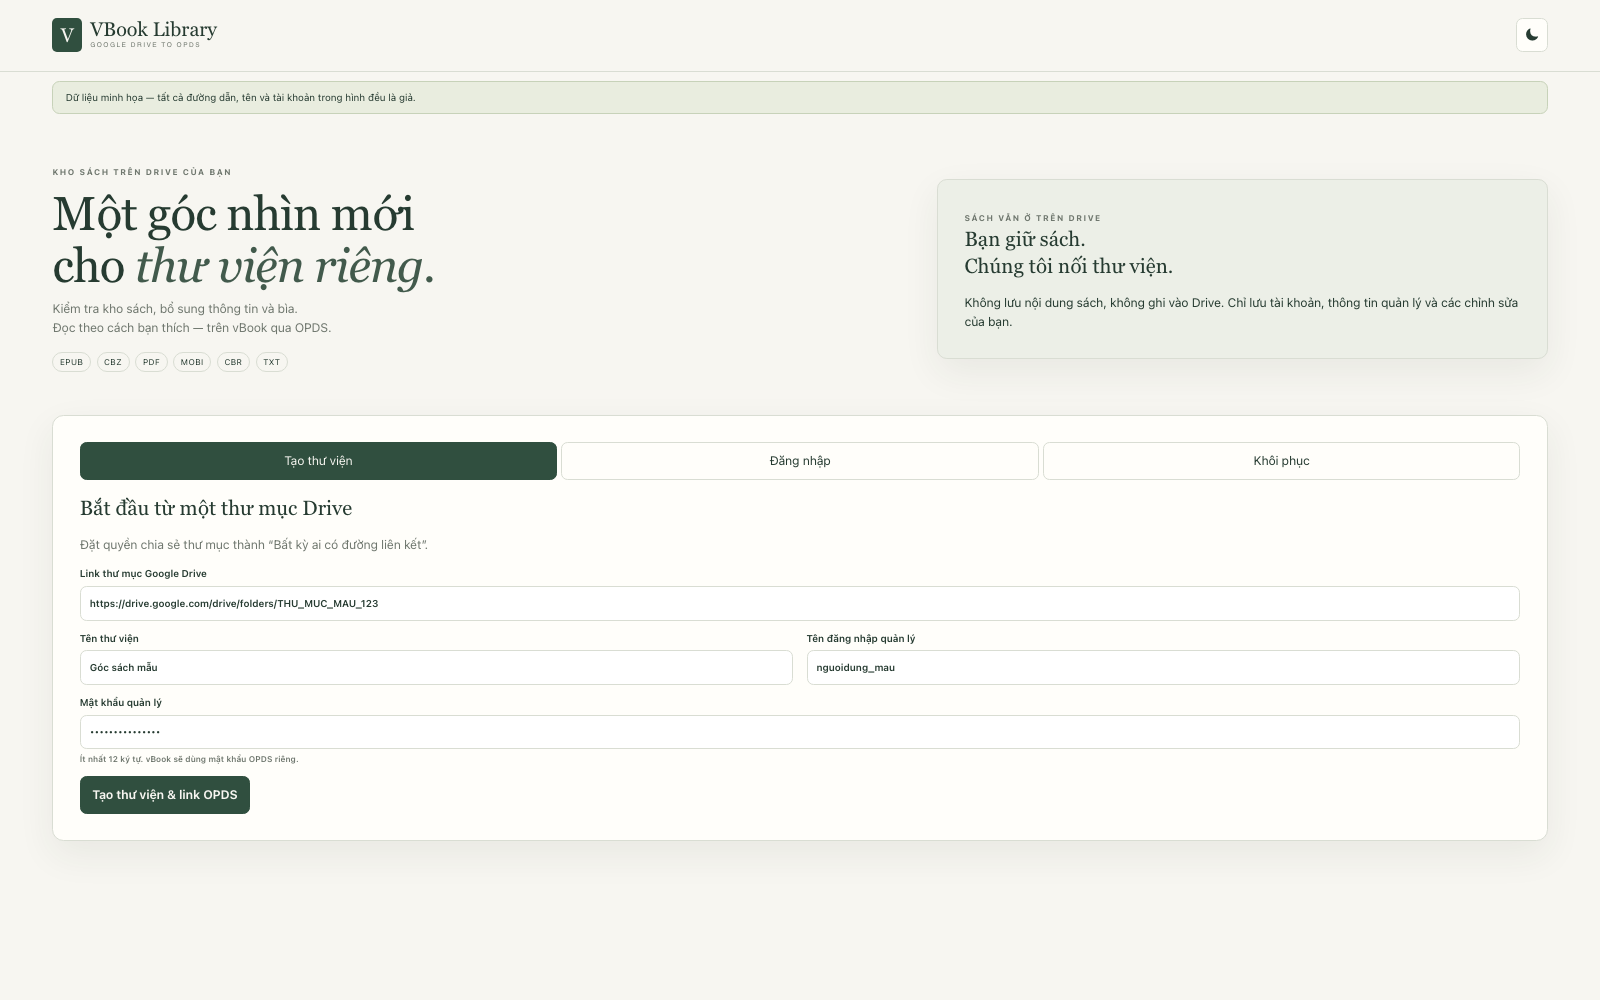
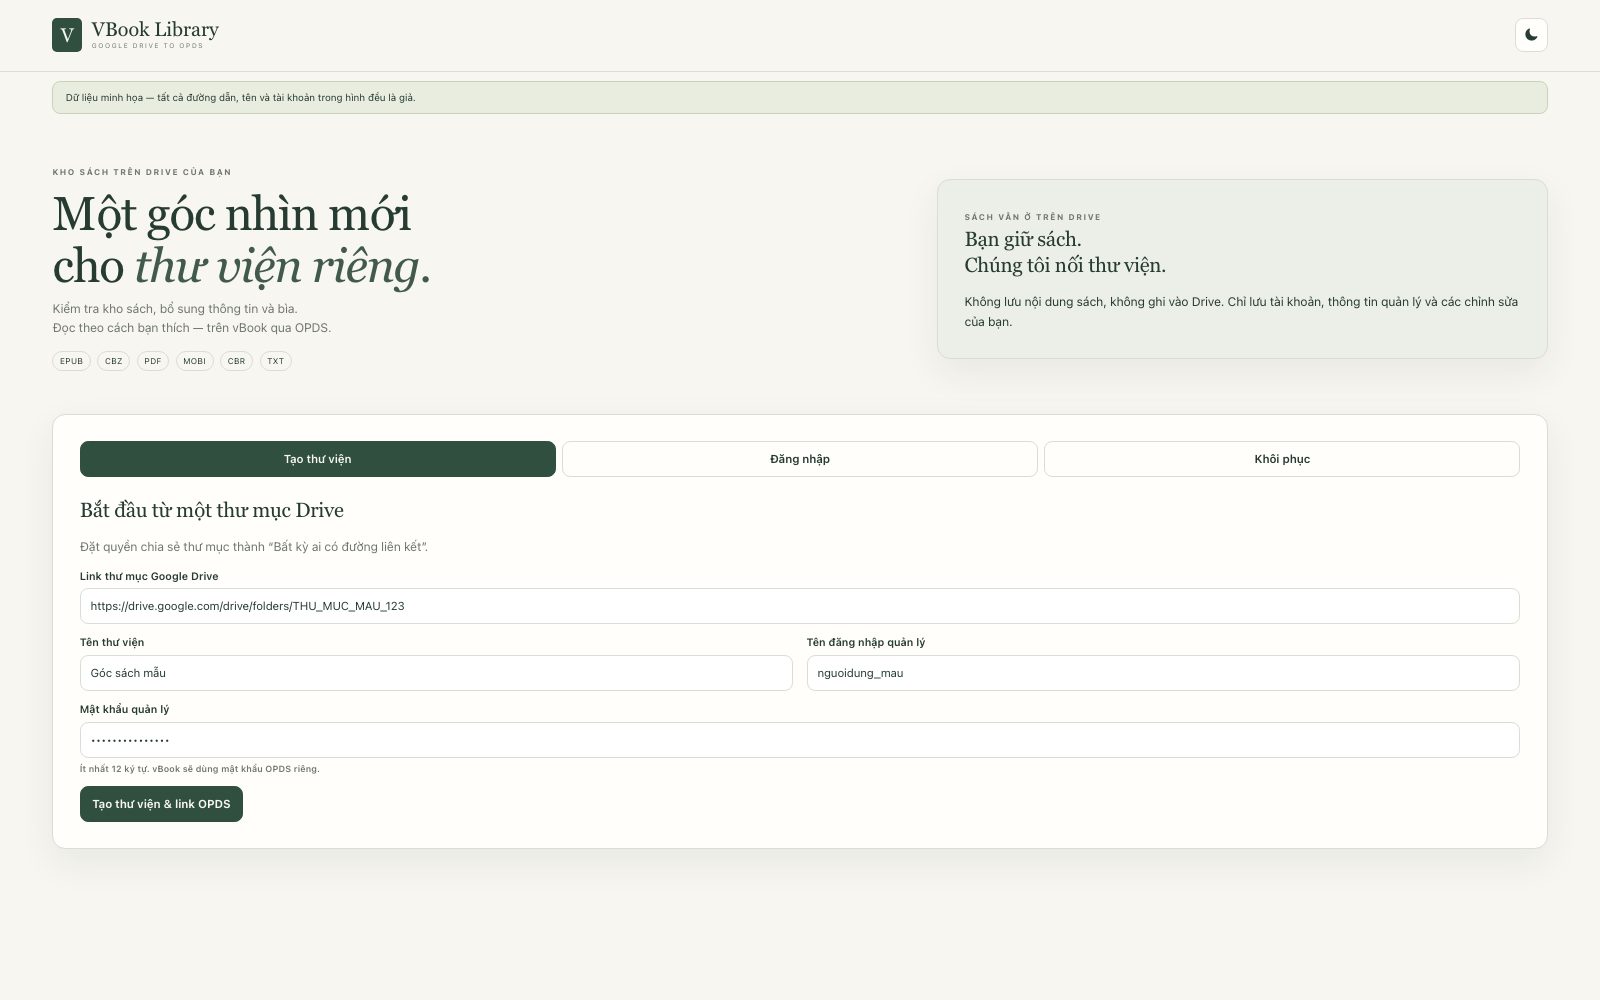
fix: standardize interface layout metrics

diff --git a/src/library-ui.ts b/src/library-ui.ts
@@ -46,6 +46,16 @@ export const libraryCss = String.raw`
   --cover-line: #dce2d3;
   --folder: #e8e2d1;
   --serif: Georgia, 'Times New Roman', serif;
+  --sans: -apple-system, BlinkMacSystemFont, 'Segoe UI', sans-serif;
+  --control-height: 44px;
+  --radius-control: 10px;
+  --radius-panel: 16px;
+  --space-1: 4px;
+  --space-2: 8px;
+  --space-3: 12px;
+  --space-4: 16px;
+  --space-5: 24px;
+  --space-6: 32px;
 }
 
 :root[data-theme='dark'] {
@@ -109,18 +119,24 @@ body {
   min-width: 280px;
   background: var(--paper);
   color: var(--ink);
-  font: 15px/1.6 -apple-system, BlinkMacSystemFont, 'Segoe UI', sans-serif;
+  font: 15px/1.6 var(--sans);
+  font-kerning: normal;
+  text-rendering: optimizeLegibility;
   -webkit-font-smoothing: antialiased;
 }
 button, input, select, textarea { font: inherit; color: inherit; }
 button, a, input, select, textarea { touch-action: manipulation; }
 button {
-  min-height: 44px;
+  min-height: var(--control-height);
   padding: 10px 14px;
   cursor: pointer;
   background: var(--surface);
   border: 1px solid var(--line);
-  border-radius: 8px;
+  border-radius: var(--radius-control);
+  font-size: 14px;
+  font-weight: 600;
+  line-height: 1.25;
+  letter-spacing: .005em;
   transition: background-color .18s ease, border-color .18s ease, transform .18s ease;
 }
 button:hover { background: var(--soft); }
@@ -146,9 +162,9 @@ header {
   border-bottom: 1px solid var(--line);
   backdrop-filter: blur(14px);
 }
-.header { display: grid; grid-template-columns: auto minmax(0, 1fr); align-items: center; gap: 8px; padding-block: 10px; }
-.brand { display: flex; gap: 10px; align-items: center; width: fit-content; text-decoration: none; font: 21px var(--serif); }
-.brand small { display: block; font: 7px/1.8 sans-serif; letter-spacing: 1.4px; color: var(--muted); }
+.header { display: grid; grid-template-columns: auto minmax(0, 1fr); align-items: center; gap: var(--space-2); padding-block: 10px; }
+.brand { display: flex; gap: var(--space-3); align-items: center; width: fit-content; text-decoration: none; font: 21px var(--serif); }
+.brand small { display: block; font: 7px/1.8 var(--sans); letter-spacing: .2em; color: var(--muted); }
 .mark {
   display: grid;
   flex: 0 0 auto;
@@ -159,30 +175,30 @@ header {
   background: var(--green);
   border-radius: 6px;
 }
-nav { display: flex; gap: 6px; align-items: center; justify-content: flex-end; overflow-x: auto; scrollbar-width: none; }
+nav { display: flex; gap: var(--space-2); align-items: center; justify-content: flex-end; overflow-x: auto; scrollbar-width: none; }
 nav::-webkit-scrollbar { display: none; }
 nav a { flex: 0 0 auto; padding: 8px 2px; font-size: 12px; }
-nav button { flex: 0 0 auto; min-height: 38px; padding: 7px 10px; font-size: 12px; }
-#theme-toggle { width: 38px; min-width: 38px; padding: 0; font-size: 19px; line-height: 1; }
+nav button { flex: 0 0 auto; min-height: 40px; padding: 8px 12px; font-size: 12px; }
+#theme-toggle { width: 40px; min-width: 40px; padding: 0; font-size: 19px; line-height: 1; }
 
-.hero { display: grid; gap: 18px; padding: clamp(22px, 7vw, 34px) 0 22px; }
-.eyebrow { margin: 0; color: var(--muted); font-size: 10px; font-weight: 700; letter-spacing: 1.8px; }
-h1 { margin: 9px 0; font: normal clamp(31px, 10vw, 58px)/1.1 var(--serif); letter-spacing: -1.2px; }
+.hero { display: grid; gap: var(--space-5); padding: clamp(24px, 7vw, 36px) 0 var(--space-5); }
+.eyebrow { margin: 0; color: var(--muted); font-size: 10px; font-weight: 700; letter-spacing: .18em; }
+h1 { margin: 9px 0; font: normal clamp(31px, 10vw, 58px)/1.1 var(--serif); letter-spacing: -.025em; }
 h1 em { color: color-mix(in srgb, var(--green) 72%, var(--muted)); font-weight: 400; }
-h2 { margin: 0 0 16px; font: normal 25px/1.3 var(--serif); }
+h2 { margin: 0 0 var(--space-4); font: normal 25px/1.3 var(--serif); letter-spacing: -.015em; }
 h3 { font-size: 18px; }
 .intro, .muted, small { color: var(--muted); }
-.intro { margin: 0 0 17px; }
+.intro { margin: 0 0 var(--space-4); }
 .intro-note {
   padding: clamp(16px, 5vw, 22px);
   background: var(--soft);
   border: 1px solid var(--line);
-  border-radius: 12px;
+  border-radius: var(--radius-panel);
   box-shadow: var(--shadow);
 }
 .intro-note p { margin-bottom: 0; }
-.tags { display: flex; flex-wrap: wrap; gap: 7px; }
-.tags span, .badge { padding: 3px 8px; border: 1px solid var(--line); border-radius: 999px; font-size: 10px; letter-spacing: .4px; }
+.tags { display: flex; flex-wrap: wrap; gap: var(--space-2); }
+.tags span, .badge { padding: 3px 8px; border: 1px solid var(--line); border-radius: 999px; font-size: 10px; letter-spacing: .04em; }
 
 .entry-panel {
   width: 100%;
@@ -191,53 +207,58 @@ h3 { font-size: 18px; }
   padding: clamp(14px, 4vw, 20px);
   background: var(--surface);
   border: 1px solid var(--line);
-  border-radius: 14px;
+  border-radius: var(--radius-panel);
   box-shadow: var(--shadow);
 }
-.tabs { display: grid; grid-template-columns: repeat(3, minmax(0, 1fr)); gap: 5px; margin-bottom: 18px; }
+.tabs { display: grid; grid-template-columns: repeat(3, minmax(0, 1fr)); gap: var(--space-2); margin-bottom: var(--space-5); }
 .tabs button { width: 100%; }
 .tabs .active, .view-toggle [aria-pressed='true'] { background: var(--green); color: var(--paper); border-color: var(--green); }
-label { display: flex; flex-direction: column; gap: 5px; margin-bottom: 12px; font-size: 12px; font-weight: 600; }
+label { display: flex; flex-direction: column; gap: 6px; margin-bottom: 14px; font-size: 13px; font-weight: 600; line-height: 1.35; letter-spacing: .01em; }
 input, select, textarea {
   width: 100%;
   min-width: 0;
-  min-height: 42px;
-  padding: 8px 11px;
+  min-height: var(--control-height);
+  padding: 9px 12px;
   background: var(--surface-raised);
   border: 1px solid var(--line);
-  border-radius: 8px;
+  border-radius: var(--radius-control);
+  font-size: 14px;
+  font-weight: 400;
+  line-height: 1.35;
+  letter-spacing: 0;
 }
 textarea { min-height: 110px; resize: vertical; }
 input[type='checkbox'] { width: 19px; min-height: 19px; height: 19px; accent-color: var(--green); }
 input[readonly] { background: var(--soft); }
 .form-grid { display: grid; gap: 0; }
 
-.section-head { display: grid; gap: 12px; padding: 22px 0 14px; }
+.section-head { display: grid; gap: var(--space-3); padding: var(--space-5) 0 var(--space-4); }
 .section-head h1 { margin-block: 8px; font-size: clamp(30px, 9vw, 42px); overflow-wrap: anywhere; }
 .section-head .primary { width: 100%; }
-.stats { display: grid; grid-template-columns: 1fr 1fr; gap: 1px; overflow: hidden; background: var(--line); border: 1px solid var(--line); border-radius: 12px; }
+.stats { display: grid; grid-template-columns: 1fr 1fr; gap: 1px; overflow: hidden; background: var(--line); border: 1px solid var(--line); border-radius: var(--radius-panel); }
 .stat { min-width: 0; padding: 11px 10px; background: var(--surface); }
 .stat strong { display: block; font: 25px var(--serif); }
 .stat span { color: var(--muted); font-size: 11px; }
-.scanbar { padding: 12px 0 14px; border-bottom: 1px solid var(--line); }
-.scanbar > div { display: grid; grid-template-columns: repeat(2, minmax(0, 1fr)); gap: 7px; }
+.scanbar { padding: var(--space-3) 0 var(--space-4); border-bottom: 1px solid var(--line); }
+.scanbar > div { display: grid; grid-template-columns: repeat(2, minmax(0, 1fr)); gap: var(--space-2); }
 .scanbar button { width: 100%; padding-inline: 8px; }
 .scanbar p { margin-bottom: 0; font-size: 13px; }
-.tools { display: grid; grid-template-columns: 1fr 1fr; gap: 8px; margin: 18px 0 14px; }
+.tools { display: grid; grid-template-columns: 1fr 1fr; gap: var(--space-3); margin: var(--space-5) 0 var(--space-4); }
 .tools label { margin: 0; }
 .tools .search, .tools .view-toggle { grid-column: 1 / -1; }
-.view-toggle { display: grid; grid-template-columns: 1fr 1fr; gap: 5px; }
-.shelf-head { display: grid; gap: 9px; margin: 18px 0; }
-.shelf-head nav { flex-wrap: wrap; overflow: visible; }
-.shelf-head button { min-height: 38px; font-size: 12px; }
-.bulk { display: grid; grid-template-columns: minmax(0, 1fr) auto; align-items: center; gap: 8px; padding: 10px; background: var(--soft); border: 1px solid var(--line); border-radius: 10px; font-size: 12px; }
+.view-toggle { display: grid; grid-template-columns: 1fr 1fr; gap: var(--space-2); height: var(--control-height); align-self: end; }
+.view-toggle button { height: var(--control-height); min-height: var(--control-height); padding-block: 0; }
+.shelf-head { display: grid; gap: var(--space-3); margin: var(--space-5) 0; }
+.shelf-head nav { flex-wrap: wrap; justify-content: flex-start; overflow: visible; }
+.shelf-head button { min-height: 40px; font-size: 12px; }
+.bulk { display: grid; grid-template-columns: minmax(0, 1fr) auto; align-items: center; gap: var(--space-3); min-height: 76px; padding: var(--space-4); background: var(--soft); border: 1px solid var(--line); border-radius: var(--radius-panel); font-size: 13px; }
 .bulk label { margin: 0; }
 .bulk > label:not(.check) { grid-column: 1; }
 .bulk > button { grid-column: 2; align-self: end; }
 #selected-count { justify-self: end; }
 .check { display: flex !important; flex-direction: row !important; align-items: center; font-weight: 400; }
 
-.books { display: grid; grid-template-columns: repeat(auto-fill, minmax(min(135px, 43vw), 1fr)); gap: 20px 12px; margin: 20px 0; }
+.books { display: grid; grid-template-columns: repeat(auto-fill, minmax(min(135px, 43vw), 1fr)); gap: var(--space-5) var(--space-3); margin: var(--space-5) 0; }
 .book { min-width: 0; position: relative; }
 .book .check { min-height: 28px; margin-bottom: 6px; font-size: 11px; }
 .book-open { width: 100%; min-height: 0; padding: 0; border: 0; background: none; text-align: left; }
@@ -251,7 +272,7 @@ input[readonly] { background: var(--soft); }
   margin-bottom: 10px;
   overflow: hidden;
   background: var(--cover);
-  border-radius: 6px;
+  border-radius: var(--radius-control);
   box-shadow: var(--shadow);
 }
 .cover img { position: relative; z-index: 1; width: 100%; height: 100%; object-fit: contain; background: var(--soft); }
@@ -263,19 +284,19 @@ input[readonly] { background: var(--soft); }
 .book-meta { display: flex; flex-wrap: wrap; gap: 5px; align-items: center; color: var(--muted); font-size: 10px; }
 .folder .cover { aspect-ratio: 4 / 2.3; background: var(--folder); }
 
-.table-wrap { width: calc(100vw - 32px); max-width: 100%; margin-top: 18px; overflow: auto; border: 1px solid var(--line); border-radius: 10px; }
+.table-wrap { width: calc(100vw - 32px); max-width: 100%; margin-top: 18px; overflow: auto; border: 1px solid var(--line); border-radius: var(--radius-panel); }
 table { width: 100%; min-width: 730px; border-collapse: collapse; background: var(--surface); }
-th { color: var(--muted); background: var(--soft); font-size: 10px; letter-spacing: 1.4px; text-align: left; text-transform: uppercase; }
+th { color: var(--muted); background: var(--soft); font-size: 10px; letter-spacing: .14em; text-align: left; text-transform: uppercase; }
 td, th { padding: 14px 12px; border-bottom: 1px solid var(--line); }
 td small { display: block; max-width: 380px; overflow-wrap: anywhere; }
 .thumb { width: 42px; height: 60px; object-fit: contain; }
 .table-title { display: flex; gap: 12px; align-items: center; }
 .table-title button { min-height: 36px; padding: 0; background: none; border: 0; text-align: left; }
-.empty { margin: 16px 0; padding: clamp(28px, 9vw, 45px) 16px; color: var(--muted); background: var(--surface); border: 1px dashed var(--line); border-radius: 12px; text-align: center; }
-.more { display: grid; gap: 9px; margin: 24px 0; }
+.empty { margin: 16px 0; padding: clamp(28px, 9vw, 45px) 16px; color: var(--muted); background: var(--surface); border: 1px dashed var(--line); border-radius: var(--radius-panel); text-align: center; }
+.more { display: grid; gap: var(--space-2); margin: var(--space-5) 0; }
 footer { margin-top: 42px; padding: 28px 0; color: var(--muted); border-top: 1px solid var(--line); font-size: 11px; text-align: center; }
 
-#notice { margin: 16px 0; padding: 13px 15px; white-space: pre-wrap; background: var(--notice); border: 1px solid var(--notice-line); border-radius: 9px; }
+#notice { margin: var(--space-4) 0; padding: 13px 15px; white-space: pre-wrap; background: var(--notice); border: 1px solid var(--notice-line); border-radius: var(--radius-control); }
 #notice.error { background: var(--error-bg); border-color: var(--error-line); }
 dialog {
   width: 100%;
@@ -287,11 +308,11 @@ dialog {
   color: var(--ink);
   background: var(--paper);
   border: 1px solid var(--line);
-  border-radius: 18px 18px 0 0;
+  border-radius: var(--radius-panel) var(--radius-panel) 0 0;
   box-shadow: var(--shadow);
 }
 dialog::backdrop { background: var(--backdrop); backdrop-filter: blur(3px); }
-.dialog-head { display: flex; align-items: center; justify-content: space-between; gap: 12px; margin-bottom: 18px; }
+.dialog-head { display: flex; align-items: center; justify-content: space-between; gap: var(--space-3); margin-bottom: var(--space-5); }
 .dialog-head h2 { margin: 0; }
 .dialog-head button { width: 44px; padding: 0; }
 .dialog-actions { display: grid; gap: 9px; }
@@ -299,7 +320,7 @@ dialog::backdrop { background: var(--backdrop); backdrop-filter: blur(3px); }
 .cover-preview { width: min(180px, 60vw); margin: auto; }
 .cover-preview .cover { aspect-ratio: 2 / 3; }
 .editor-grid p { font-size: 12px; }
-.secret { margin: 14px 0; padding: 14px; overflow-wrap: anywhere; background: var(--soft); border-radius: 8px; }
+.secret { margin: var(--space-4) 0; padding: var(--space-4); overflow-wrap: anywhere; background: var(--soft); border-radius: var(--radius-control); }
 .secret code { display: block; user-select: all; font-size: 13px; }
 #account-info { overflow-wrap: anywhere; }
 hr { margin: 24px 0; border: 0; border-top: 1px solid var(--line); }
@@ -335,15 +356,15 @@ hr { margin: 24px 0; border: 0; border-top: 1px solid var(--line); }
   .stats { grid-template-columns: repeat(4, 1fr); }
   .stat { padding: 18px; }
   .stat strong { font-size: 32px; }
-  .tools { grid-template-columns: minmax(230px, 1fr) repeat(3, minmax(120px, auto)) auto; align-items: end; }
+  .tools { grid-template-columns: minmax(280px, 1fr) repeat(3, minmax(132px, auto)) auto; align-items: end; }
   .tools .search, .tools .view-toggle { grid-column: auto; }
   .shelf-head { grid-template-columns: 1fr auto; align-items: center; }
-  .bulk { grid-template-columns: auto auto 1fr auto; }
+  .bulk { grid-template-columns: minmax(230px, 1fr) auto minmax(190px, auto) auto; }
   .bulk > label:not(.check), .bulk > button { grid-column: auto; }
   .bulk > label:not(.check) { justify-self: end; }
-  .bulk input:not([type='checkbox']) { width: 130px; }
+  .bulk input:not([type='checkbox']) { width: 160px; }
   .books { grid-template-columns: repeat(auto-fill, minmax(160px, 1fr)); gap: 30px 22px; }
-  dialog { width: min(850px, calc(100vw - 48px)); max-height: 90vh; margin: auto; padding: 28px; border-radius: 14px; }
+  dialog { width: min(850px, calc(100vw - 48px)); max-height: 90vh; margin: auto; padding: 28px; border-radius: var(--radius-panel); }
   #account { width: min(600px, calc(100vw - 48px)); }
   .editor-grid { grid-template-columns: 190px 1fr; gap: 28px; }
   .cover-preview { width: auto; }

diff --git a/test/library.test.ts b/test/library.test.ts
@@ -8,7 +8,7 @@ import app from '../src/index';
 import { extractFolderId } from '../src/drive';
 import { bookKey, hashPassword, checkPassword, seal } from '../src/library-security';
 import { libraryClient } from '../src/library-client';
-import { libraryHtml } from '../src/library-ui';
+import { libraryCss, libraryHtml } from '../src/library-ui';
 
 // Exercise actual migration/query SQL with SQLite, without emulating query results.
 class TestD1 {
@@ -90,6 +90,9 @@ test('managed UI is available without DB; legacy endpoints remain separate; JS p
   assert.equal((await app.request('https://library.example/api/session')).status,503);
   assert.equal((await app.request('https://library.example/legacy')).status,404);
   assert.equal((await app.request('https://library.example/assets/library.js')).status,200);
+  assert.match(libraryCss,/--control-height: 44px/);
+  assert.match(libraryCss,/\.view-toggle \{[^}]*height: var\(--control-height\)/s);
+  assert.match(libraryCss,/\.shelf-head nav \{[^}]*justify-content: flex-start/s);
   new Script(libraryClient);
 });
 test('creation uses encrypted source and hashes; session CSRF, Origin and account boundaries enforced', async()=>{
